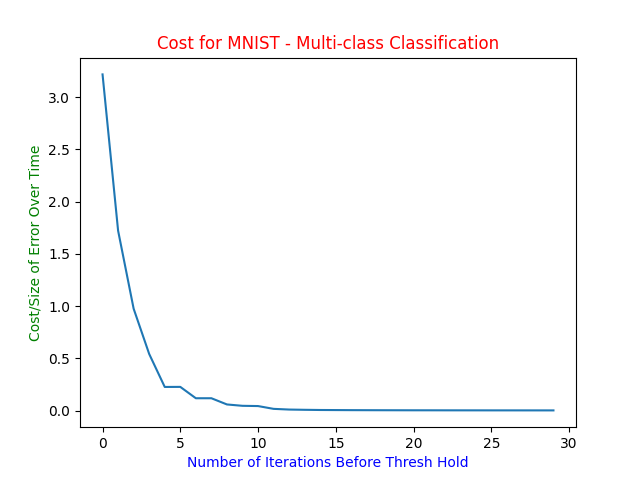
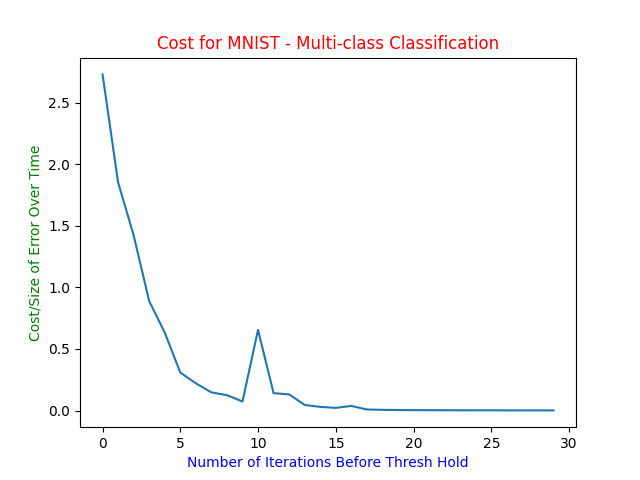
Reformatting

diff --git a/MyFiles/NeuralNetwork.py b/MyFiles/NeuralNetwork.py
@@ -4,6 +4,7 @@ from sklearn.model_selection import train_test_split
 from sklearn.datasets import fetch_openml
 import matplotlib.pyplot as plt
 from numpy.lib.stride_tricks import sliding_window_view
+import os
 L2 = 1e-4
 
 # An activation function that handles multi-class classifications, outputting a probability
@@ -603,10 +604,24 @@ def cnn_scatter_plot(predicted, true):
     plt.savefig("[MNIST - Multi-class] Actual vs. Predicted values.png")
     plt.show()
 
+def cached_mnist_784(file_path = "mnist_784.npz"):
+    if os.path.exists(file_path):
+        with number_array.load(file_path) as loaded:
+            x_holder = loaded["X"]
+            y_holder = loaded["y"]
+        print(f"The file path to the dataset {file_path} executed successfully.")
+    else:
+        print("Retrieving the dataset from OpenML")
+        dataset = fetch_openml(name= "mnist_784", version = 1, as_frame = False, parser = 'liac-arff')
+        x_holder = dataset.data
+        y_holder = dataset.target.astype(int)
+        number_array.savez_compressed(file_path, X = x_holder, y = y_holder)
+        print(f"The dataset has been saved to the file path {file_path}.")
+    return x_holder, y_holder
+
 def do_cnn():
-    data_holder = fetch_openml('mnist_784', as_frame = False, parser = 'liac-arff')
-    x_begin = data_holder.data
-    y_begin = data_holder.target.astype(int)
+    #data_holder = fetch_openml('mnist_784', as_frame = False, parser = 'liac-arff')
+    x_begin, y_begin = cached_mnist_784()
     x = x_begin.reshape(-1, 28, 28, 1)
     x = x.astype(float) / 255.0
     y_res = y_begin.reshape(1, -1)
@@ -640,8 +655,6 @@ def do_cnn():
     print("Accuracy: " + str(accuracy))
     plot_save_cost_curve_cnn(cost)
     cnn_scatter_plot(prediction_holder, actual)
-
-
 
 def main():
     while True :